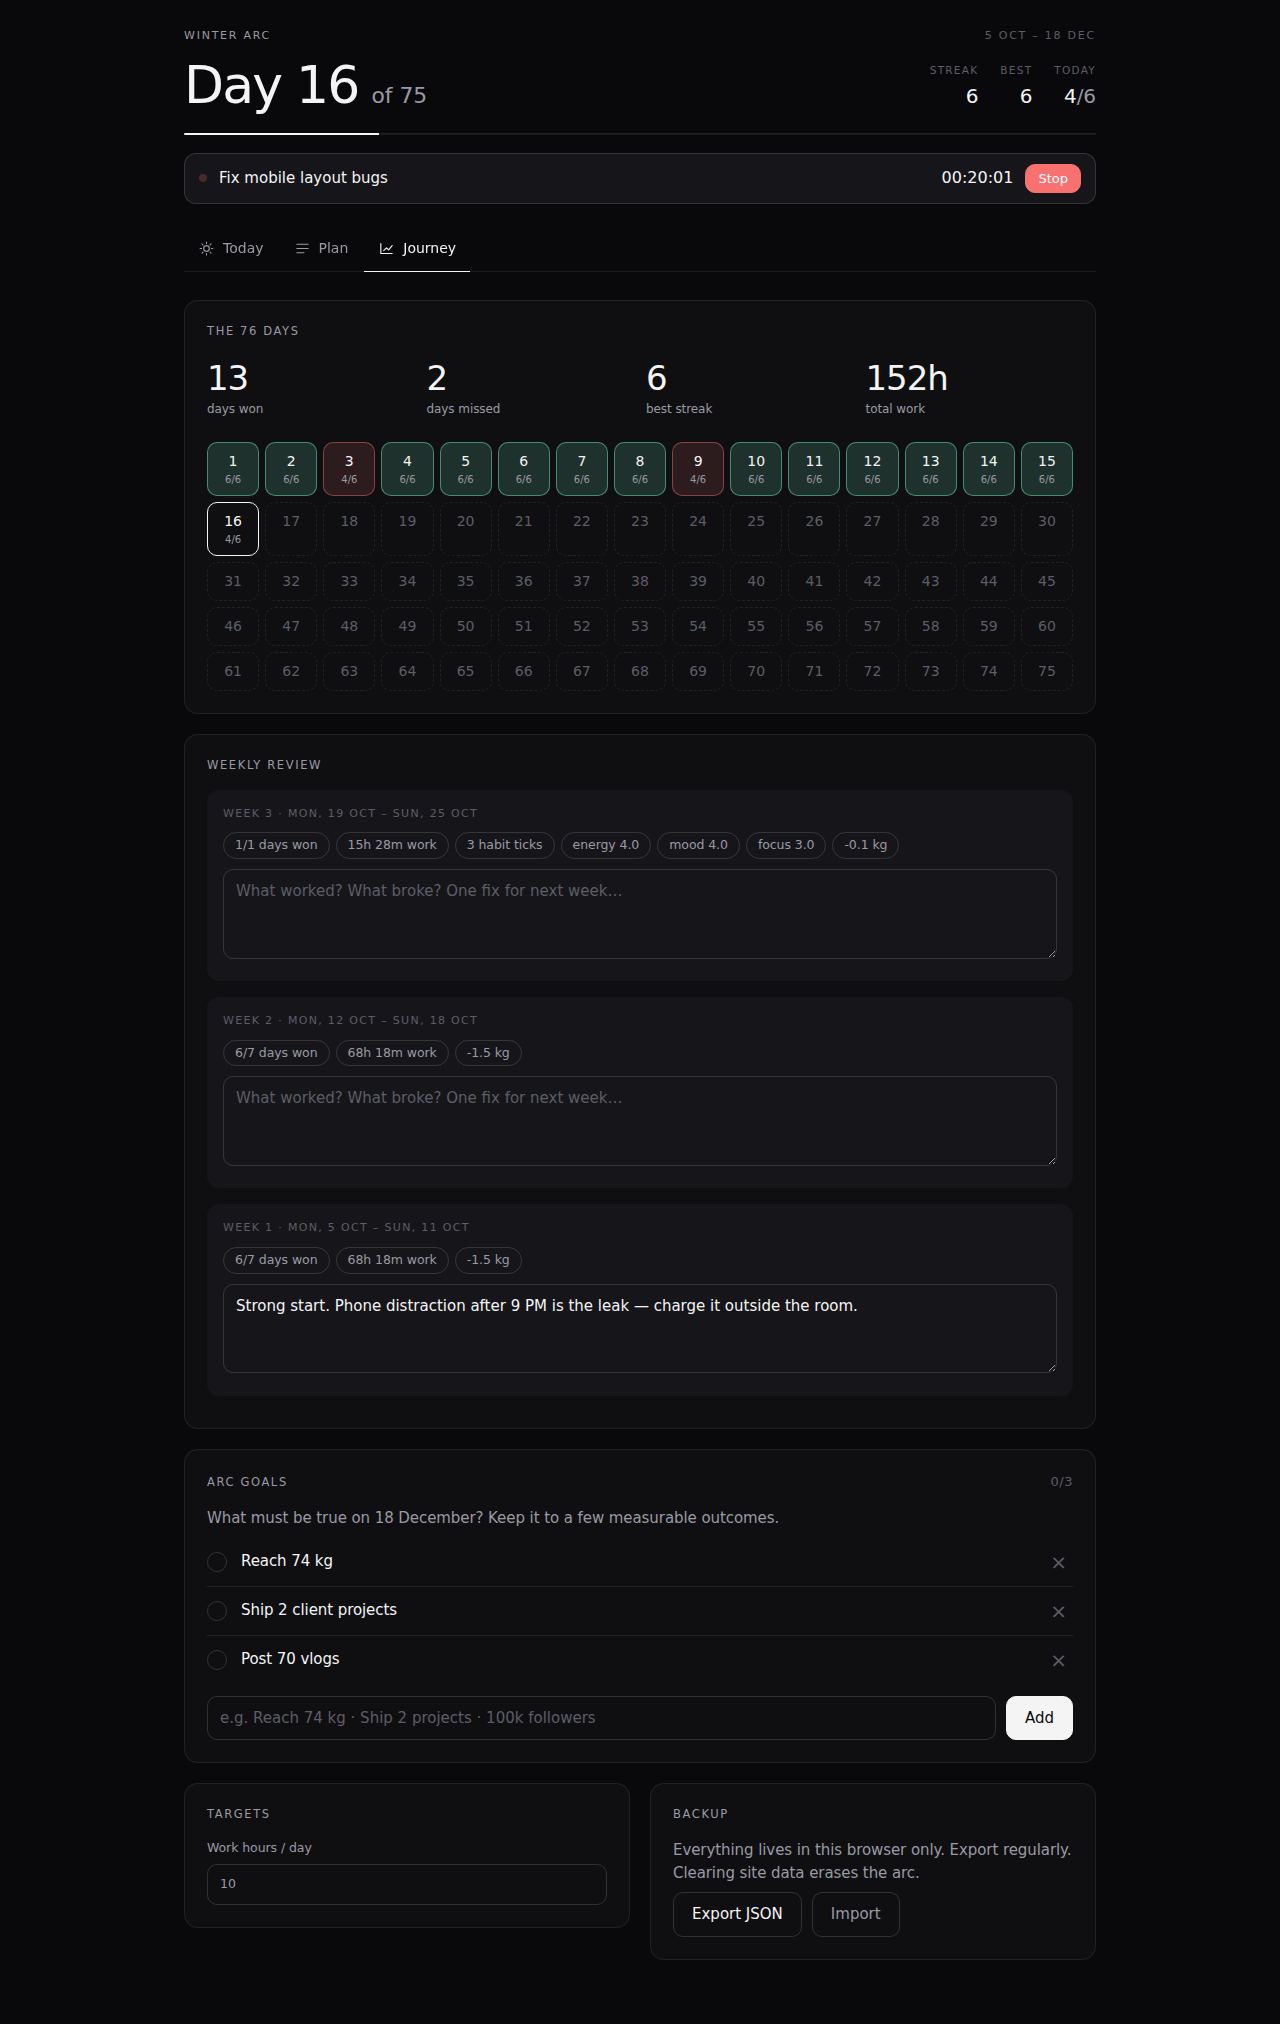
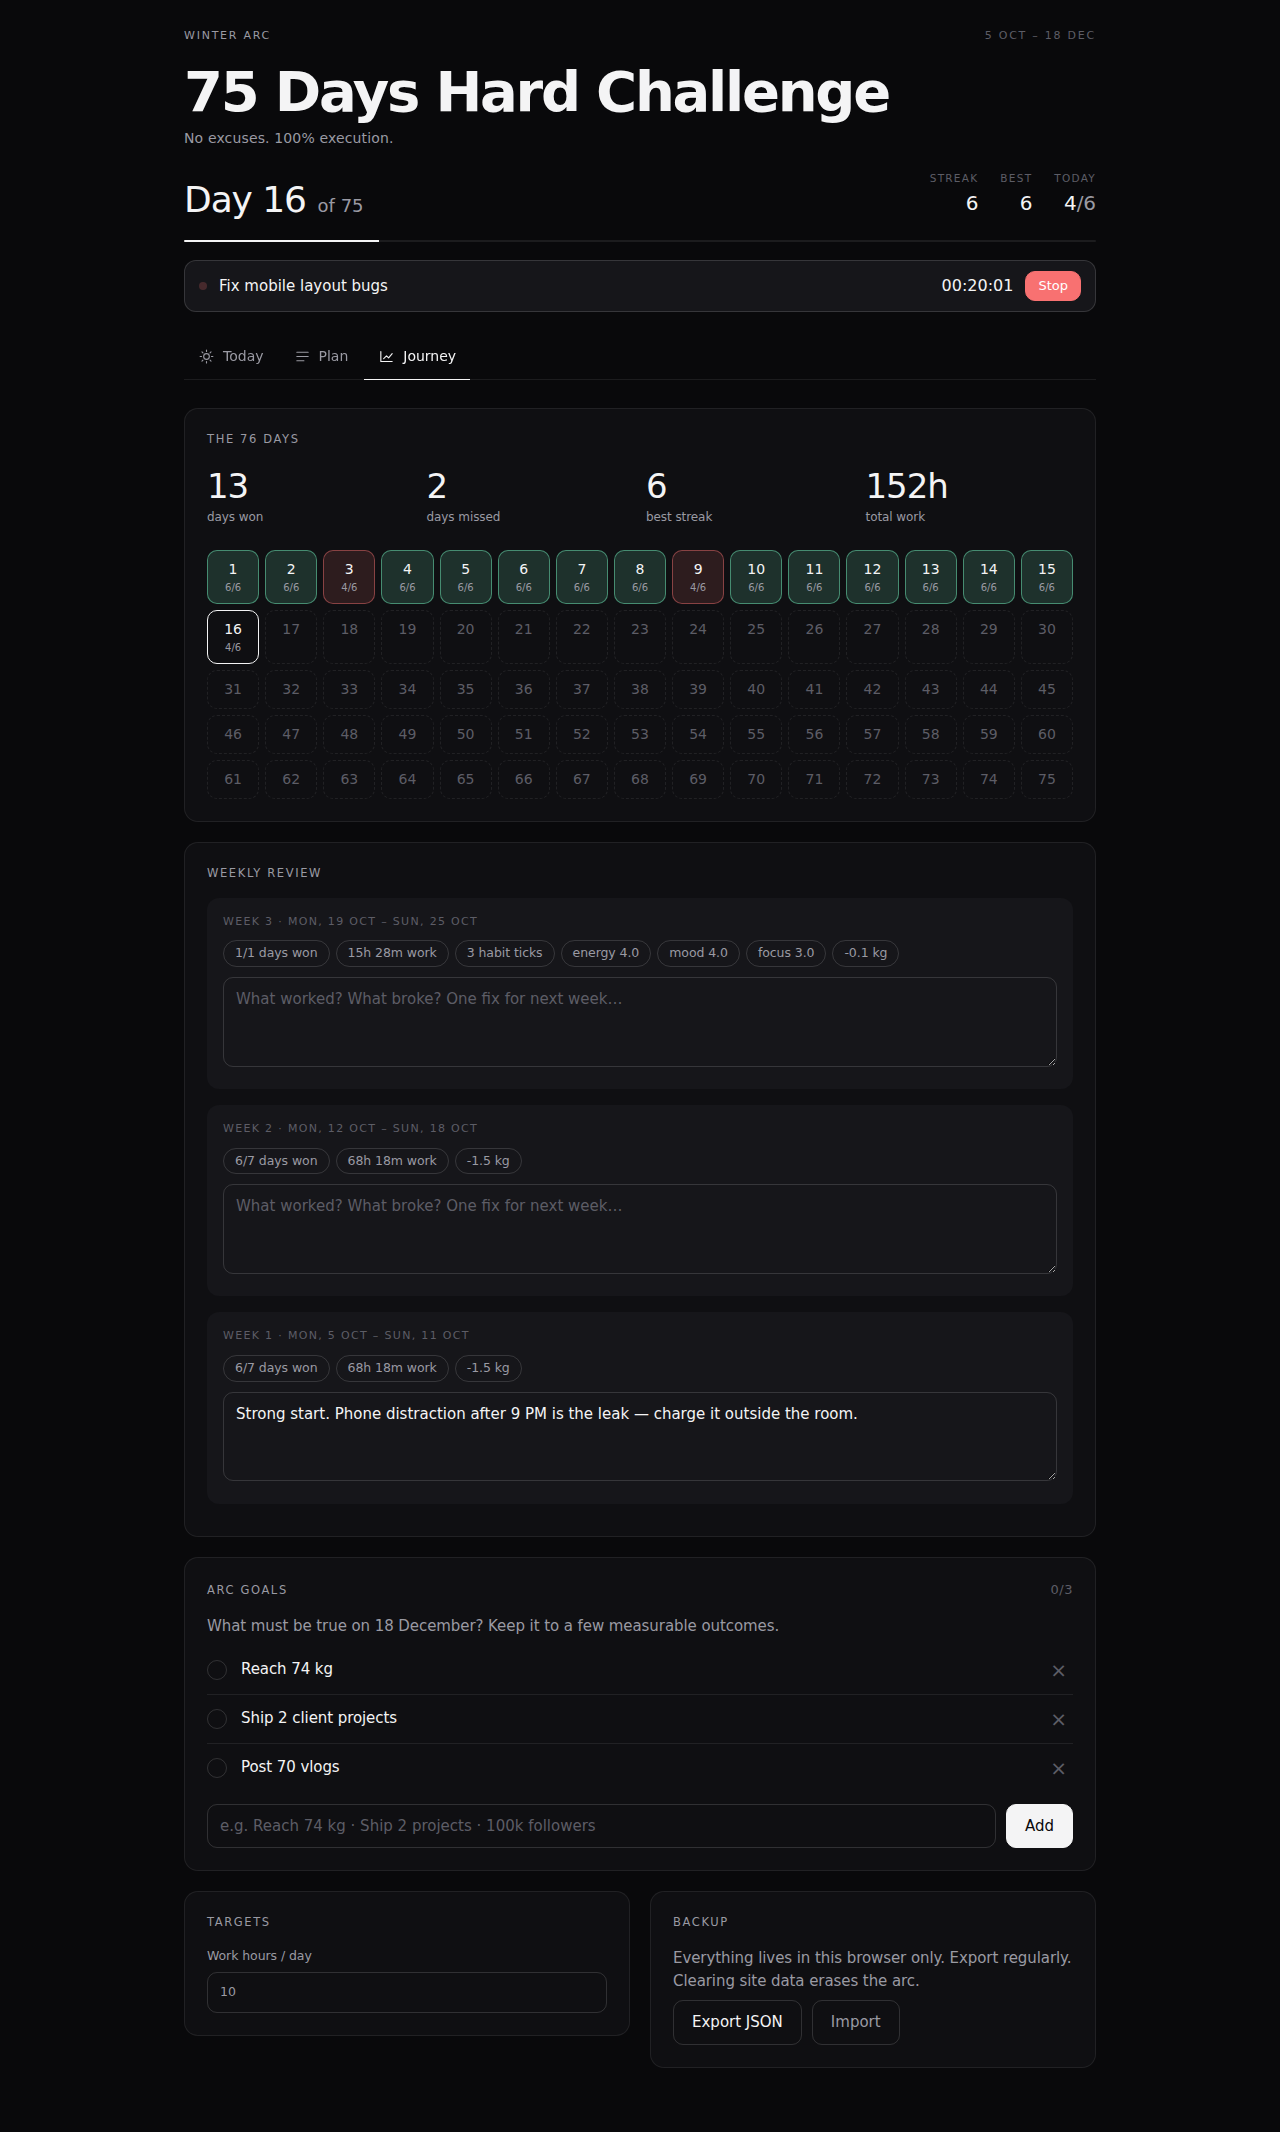
Headline: 75 Days Hard Challenge
Claude-Session: https://claude.ai/code/session_01WTKywF3WSx8F6Vy4QhDQe5

diff --git a/src/styles.css b/src/styles.css
@@ -29,9 +29,11 @@ body { margin: 0; background: var(--bg); color: var(--text); font: 400 15px/1.5 
 .brand { display: flex; justify-content: space-between; }
 .eyebrow { font-size: 11px; letter-spacing: .16em; text-transform: uppercase; font-weight: 500; color: var(--muted); }
 .eyebrow.dim { color: var(--faint); }
-.hero-row { display: flex; justify-content: space-between; align-items: flex-end; gap: 16px; margin-top: 14px; }
-h1 { margin: 0; font: 300 clamp(34px, 6vw, 52px)/1 var(--sans); letter-spacing: -0.035em; }
-h1 .unit { font-size: .42em; color: var(--muted); letter-spacing: 0; margin-left: 6px; font-weight: 400; }
+.hero-row { display: flex; justify-content: space-between; align-items: flex-end; gap: 16px; margin-top: 22px; }
+h1.headline { margin: 18px 0 0; font: 600 clamp(30px, 6.4vw, 56px)/1.02 var(--sans); letter-spacing: -0.04em; }
+.tagline { margin: 8px 0 0; color: var(--muted); font-size: 14px; letter-spacing: .01em; }
+.daycount { font: 300 clamp(26px, 4.4vw, 36px)/1 var(--sans); letter-spacing: -0.03em; }
+.daycount .unit { font-size: .5em; color: var(--muted); letter-spacing: 0; margin-left: 6px; font-weight: 400; }
 .mini { display: flex; gap: 22px; margin: 0; }
 .mini div { text-align: right; }
 .mini dt { font-size: 10.5px; letter-spacing: .12em; text-transform: uppercase; color: var(--faint); }
@@ -196,6 +198,7 @@ input.inline { background: transparent !important; border: 0 !important; padding
   .hero-row { align-items: flex-end; }
   .mini { gap: 14px; } .mini dd { font-size: 17px; }
   /* bottom tab bar, app-style */
+  main { margin-top: 26px; }
   .tabs { position: fixed; left: 0; right: 0; bottom: 0; top: auto; margin: 0; border: 0; border-top: 1px solid var(--line); padding: 6px 6px calc(6px + env(safe-area-inset-bottom)); background: color-mix(in srgb, var(--bg) 92%, transparent); gap: 0; z-index: 30; }
   .tabs button { flex: 1; flex-direction: column; gap: 3px; padding: 6px 0; font-size: 10.5px; border: 0; margin: 0; border-radius: 10px; }
   .tabs button.on { background: var(--raised); }

diff --git a/src/App.jsx b/src/App.jsx
@@ -28,7 +28,7 @@ export default function App() {
 
   // Running timer shows in the browser tab title.
   useEffect(() => {
-    document.title = timer ? `⏱ ${fmtClock(now - timer.startedAt)} · ${timer.label}` : 'Winter Arc';
+    document.title = timer ? `⏱ ${fmtClock(now - timer.startedAt)} · ${timer.label}` : `Winter Arc · ${TOTAL_DAYS} Days Hard Challenge`;
   }, [timer, now]);
 
   const day = { ...emptyDay(), ...(days[today] || {}) };
@@ -49,12 +49,14 @@ export default function App() {
           <span className="eyebrow">Winter Arc</span>
           <span className="eyebrow dim">{fmtDate(START, { day: 'numeric', month: 'short' })} – {fmtDate(END, { day: 'numeric', month: 'short' })}</span>
         </div>
+        <h1 className="headline">{TOTAL_DAYS} Days Hard Challenge</h1>
+        <p className="tagline">No excuses. 100% execution.</p>
         <div className="hero-row">
-          <h1>
+          <div className="daycount">
             {before && <>Starts in {diffDays(START, today)}<span className="unit"> day{diffDays(START, today) === 1 ? '' : 's'}</span></>}
             {inChallenge(today) && <>Day {dn}<span className="unit"> of {TOTAL_DAYS}</span></>}
             {after && <>Complete</>}
-          </h1>
+          </div>
           <dl className="mini">
             <div><dt>Streak</dt><dd>{current}</dd></div>
             <div><dt>Best</dt><dd>{best}</dd></div>

diff --git a/index.html b/index.html
@@ -8,7 +8,7 @@
     <link rel="preconnect" href="https://fonts.googleapis.com" />
     <link rel="preconnect" href="https://fonts.gstatic.com" crossorigin />
     <link href="https://fonts.googleapis.com/css2?family=Inter:wght@300;400;500;600&family=Instrument+Serif:ital@0;1&display=swap" rel="stylesheet" />
-    <title>Winter Arc</title>
+    <title>Winter Arc · 75 Days Hard Challenge</title>
   </head>
   <body>
     <div id="root"></div>

diff --git a/README.md b/README.md
@@ -1,4 +1,4 @@
-# Winter Arc
+# Winter Arc · 75 Days Hard Challenge
 
 75-day discipline tracker: 5 Oct → 18 Dec 2026. React + Vite, no backend; data lives in the browser (localStorage).
 
